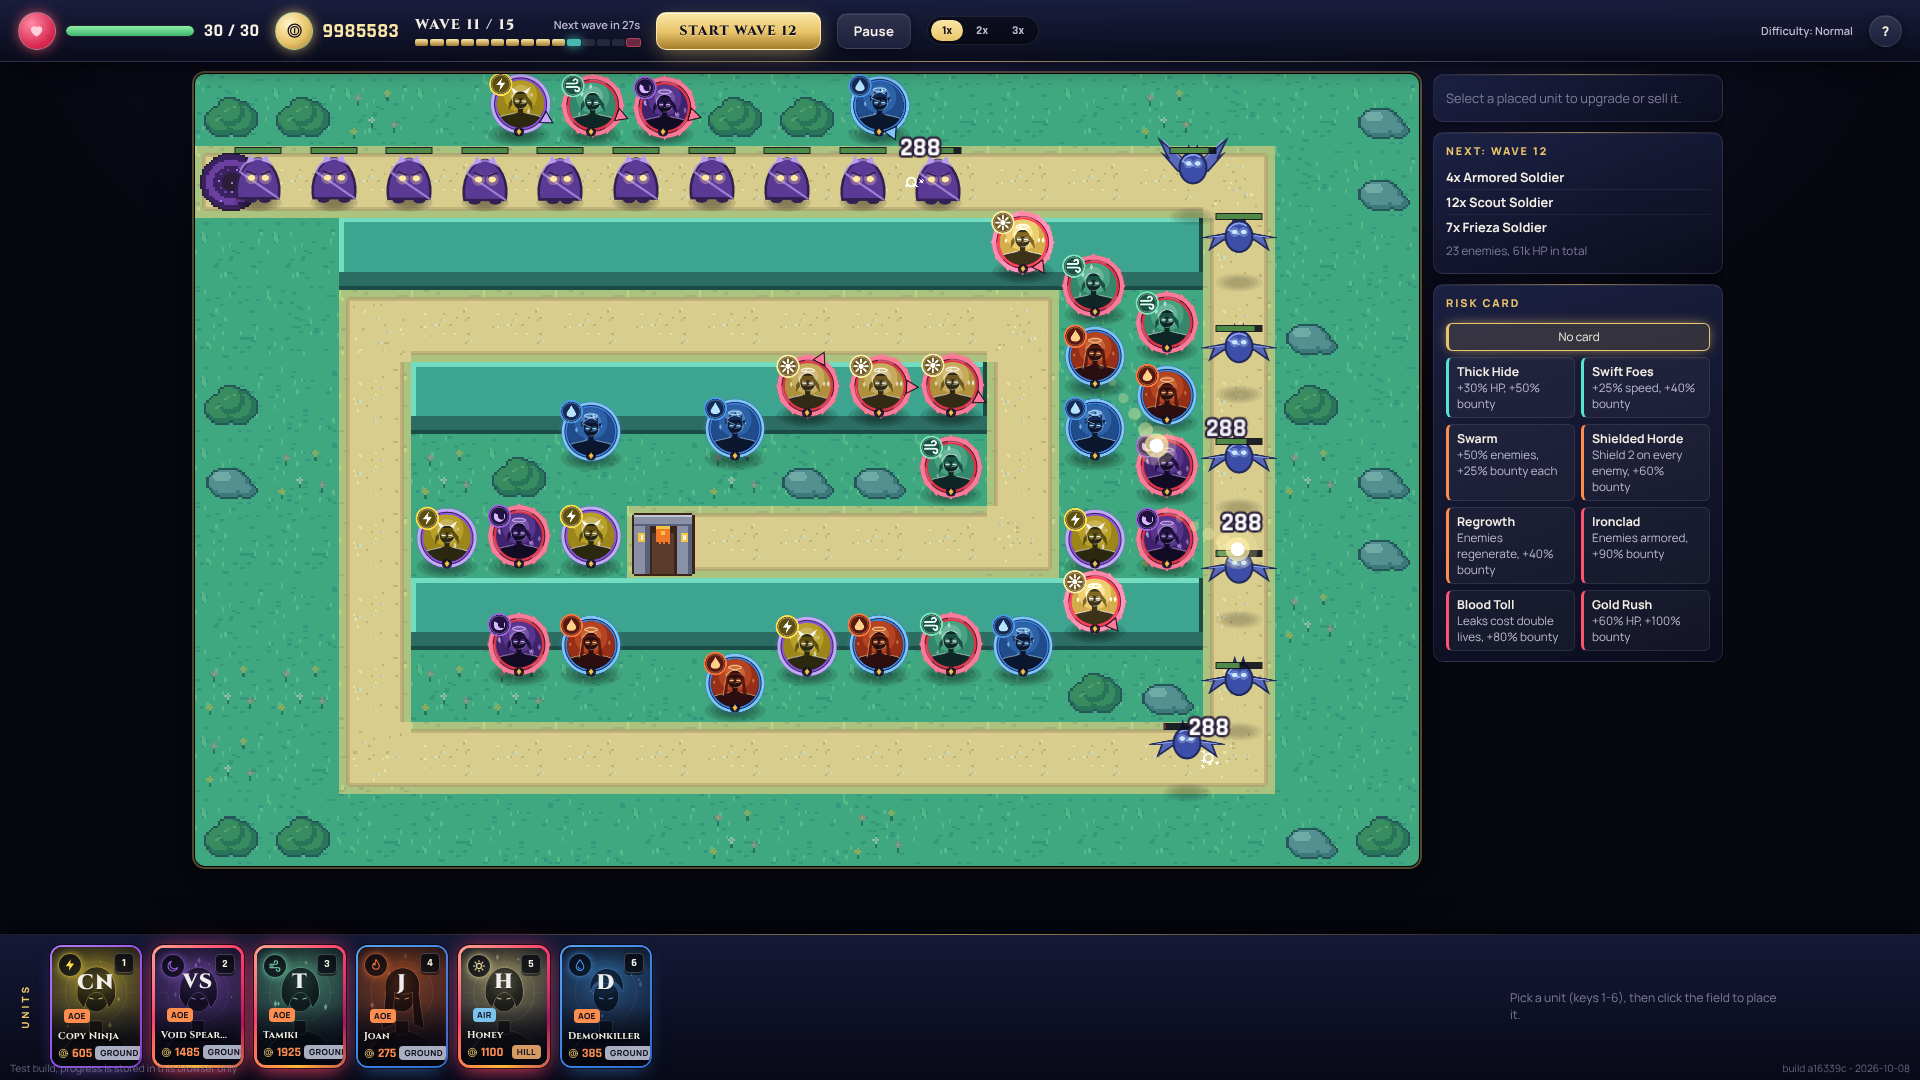
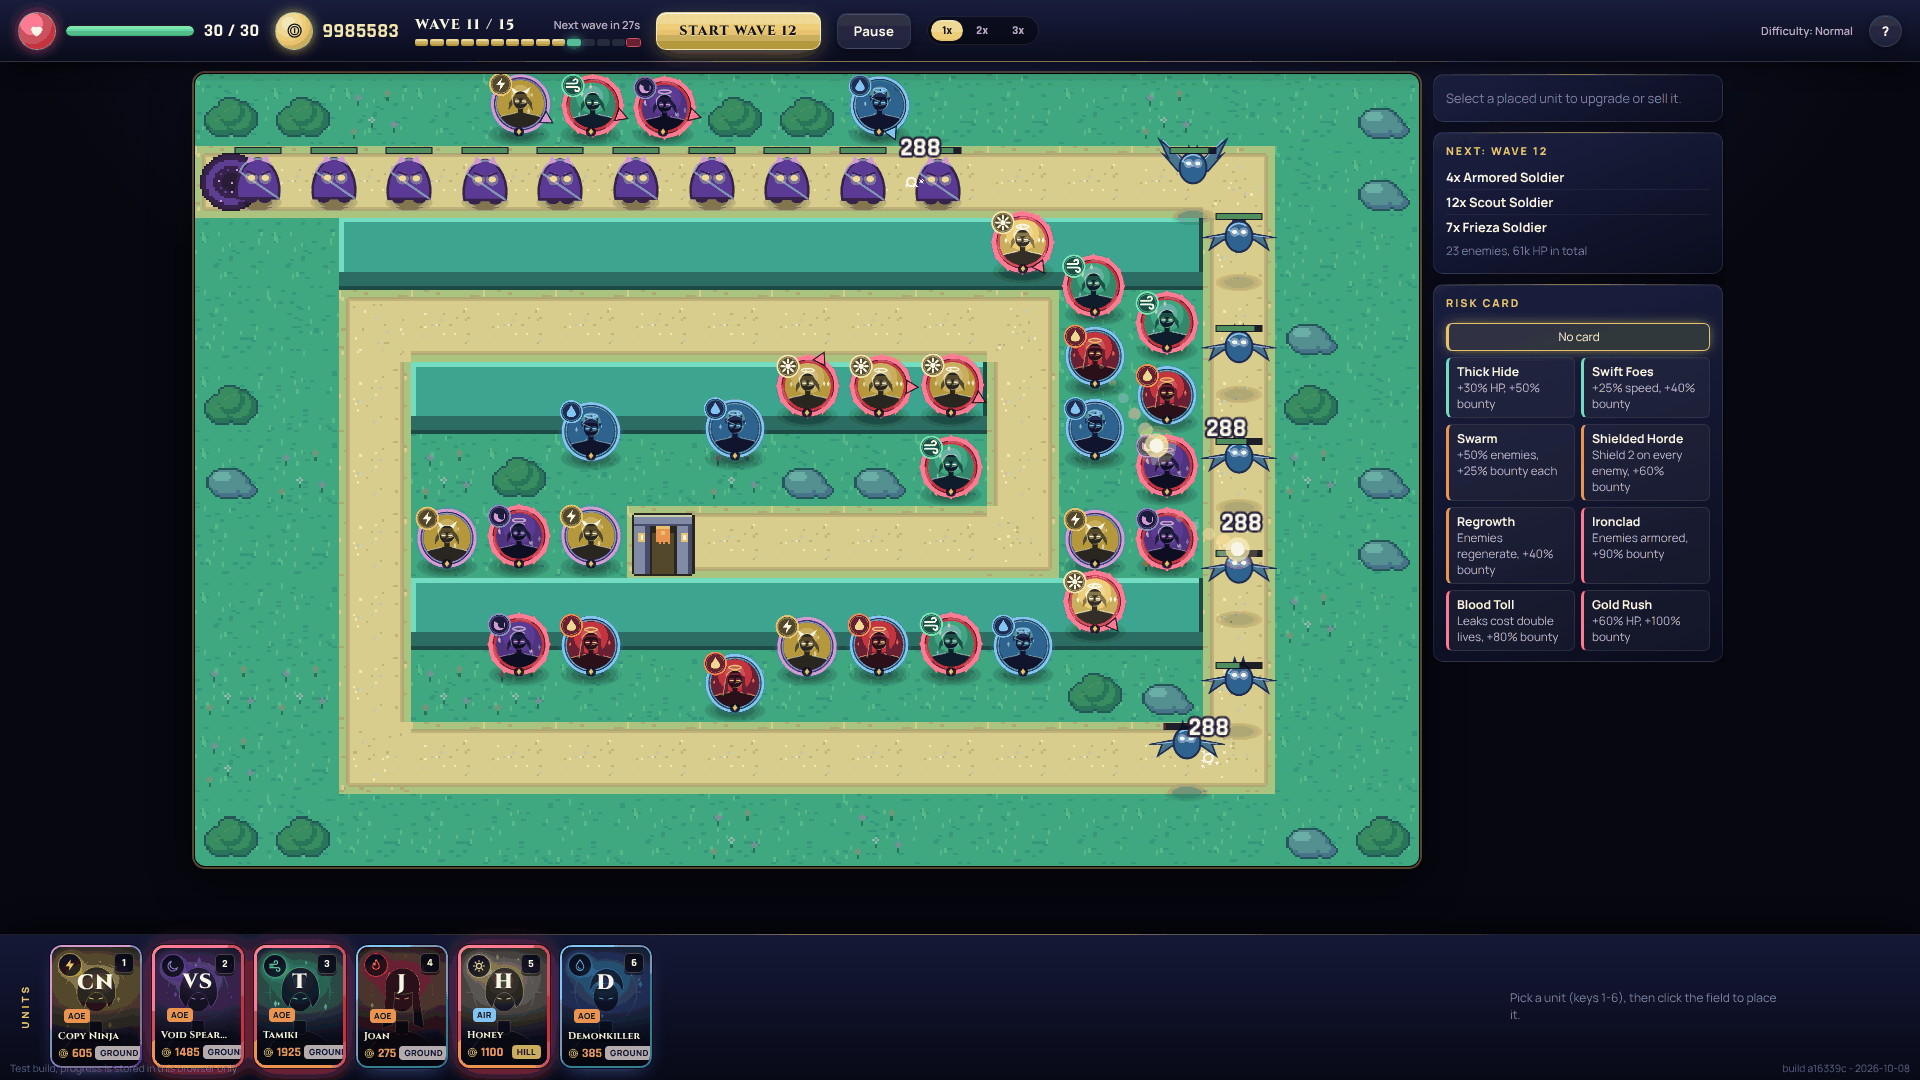
wip(r10-p2): leere /sfx/index.json (kein 404 in der Konsole), Screenshots verkleinert
Claude-Session: https://claude.ai/code/session_01LVAUDA1LFSz1X1v4vXCdua

diff --git a/client/src/audio/samples.ts b/client/src/audio/samples.ts
@@ -2,6 +2,7 @@
  * Optionale Klang-Dateien (Runde 10 / P2): Liegt unter `/sfx/index.json` eine Liste, ersetzt jede darin genannte Datei den synthetisierten Klang
  * mit derselben ID. Ohne Liste (lokal, ohne die Homelab-Seite) bleibt alles synthetisiert; ein kaputter Eintrag wird uebersprungen.
  *
+ * Die Datei `public/sfx/index.json` liegt leer (`{}`) im Repo, damit kein 404 in der Konsole steht (der Smoke-Test prueft das).
  * Format der Liste: Objekt `{ "hit.fire": "hit.fire.ogg", "crit": "crit.ogg", ... }` (ID -> Dateiname unter `/sfx/`) oder Array von IDs
  * (dann gilt `<id>.ogg`). Die ID-Namen stehen in `logic.ts` (`SoundId`) und `logic-match.ts` (`MatchSoundId`).
  * Die Homelab-Seite legt Dateien und Liste nach `client/public/sfx/` (siehe Wunschliste in `docs/STATUS.md`).

diff --git a/client/docs/r10/p2-assets-wunschliste.md b/client/docs/r10/p2-assets-wunschliste.md
@@ -4,7 +4,7 @@ Stand 08.10.2026. Aus der Agent-Umgebung sind kenney.nl, opengameart.org und fre
 der Match-Ton wird synthetisiert (`src/audio/recipes*.ts`). Die Homelab-Seite kann die Dateien holen und nach `client/public/sfx/` legen, **ohne Code zu aendern**:
 
 1. Dateien als `.ogg` (oder `.wav`/`.mp3`) nach `client/public/sfx/`.
-2. Liste `client/public/sfx/index.json` mit ID -> Dateiname, z. B. `{ "hit.fire": "fire-whoosh.ogg", "crit": "crit.ogg" }` (oder ein Array von IDs, dann gilt `<id>.ogg`).
+2. Liste `client/public/sfx/index.json` (liegt als leeres `{}` schon da, damit der Browser keinen 404 meldet; einfach fuellen) mit ID -> Dateiname, z. B. `{ "hit.fire": "fire-whoosh.ogg", "crit": "crit.ogg" }` (oder ein Array von IDs, dann gilt `<id>.ogg`).
 3. Jede genannte ID ersetzt den synthetisierten Klang; fehlt eine ID, bleibt die Synthese. Ein Fehlschlag beim Laden ist still (`src/audio/samples.ts`).
 
 Lizenz und Herkunft der geholten Dateien in `client/assets/ATTRIBUTIONS.md` eintragen (Kenney = CC0).
